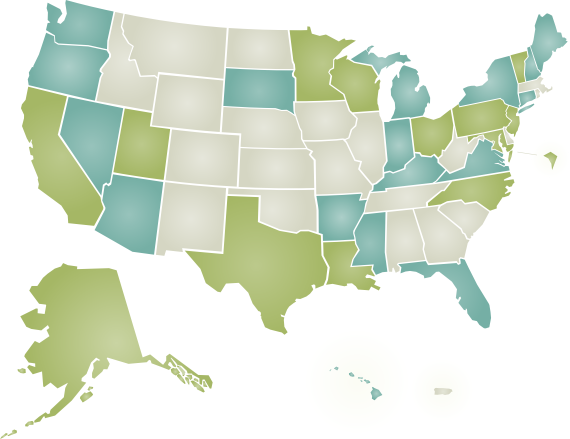
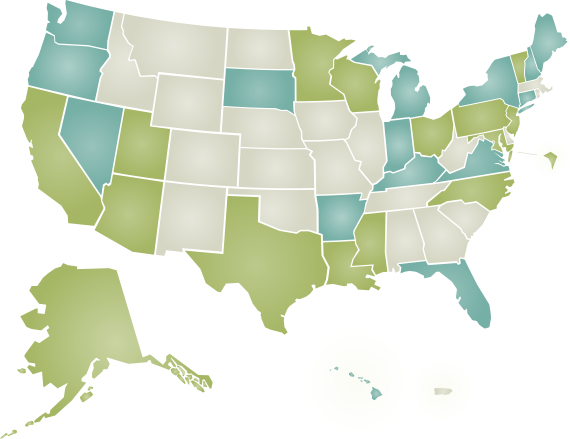
AZ, DC, MS to ready

Changed region(s): [[0.1491, 0.385, 0.2982, 0.5923], [0.5965, 0.4738, 0.686, 0.6219]]

diff --git a/templates/status.html b/templates/status.html
@@ -32,13 +32,13 @@ google group</a>.</p>
 
 <h4> Ready States </h4>
 <p> Ready states (green on the above map) are those that we've identified as having the highest quality
-data.  Currently this includes Alaska, California, Louisiana, Maryland, Minnesota,
-New Jersey, North Carolina, Ohio, Pennsylvania, Texas, Utah, Vermont, and Wisconsin.</p>
+data.  Currently this includes Alaska, Arizona, California, Louisiana, Maryland, Minnesota, Mississippi,
+New Jersey, North Carolina, Ohio, Pennsylvania, Texas, Utah, Vermont, Washington DC, and Wisconsin.</p>
 
 <h4> Experimental States </h4>
 <p> Experimental states (in blue) are those that we support but have not yet promoted to ready
-status.  Arkansas, Arizona, Connecticut, Florida, Hawaii, Indiana, Kentucky, Maine, Michigan, Mississippi,
-Nevada, New Hampshire, New York, Oregon, South Dakota, Virginia, Washington and Washington DC fall in this category.
+status.  Arkansas, Connecticut, Florida, Hawaii, Indiana, Kentucky, Maine, Michigan,
+Nevada, New Hampshire, New York, Oregon, South Dakota, Virginia, Washington fall in this category.
 </p>
 
 <h4> Unsupported States </h4>
